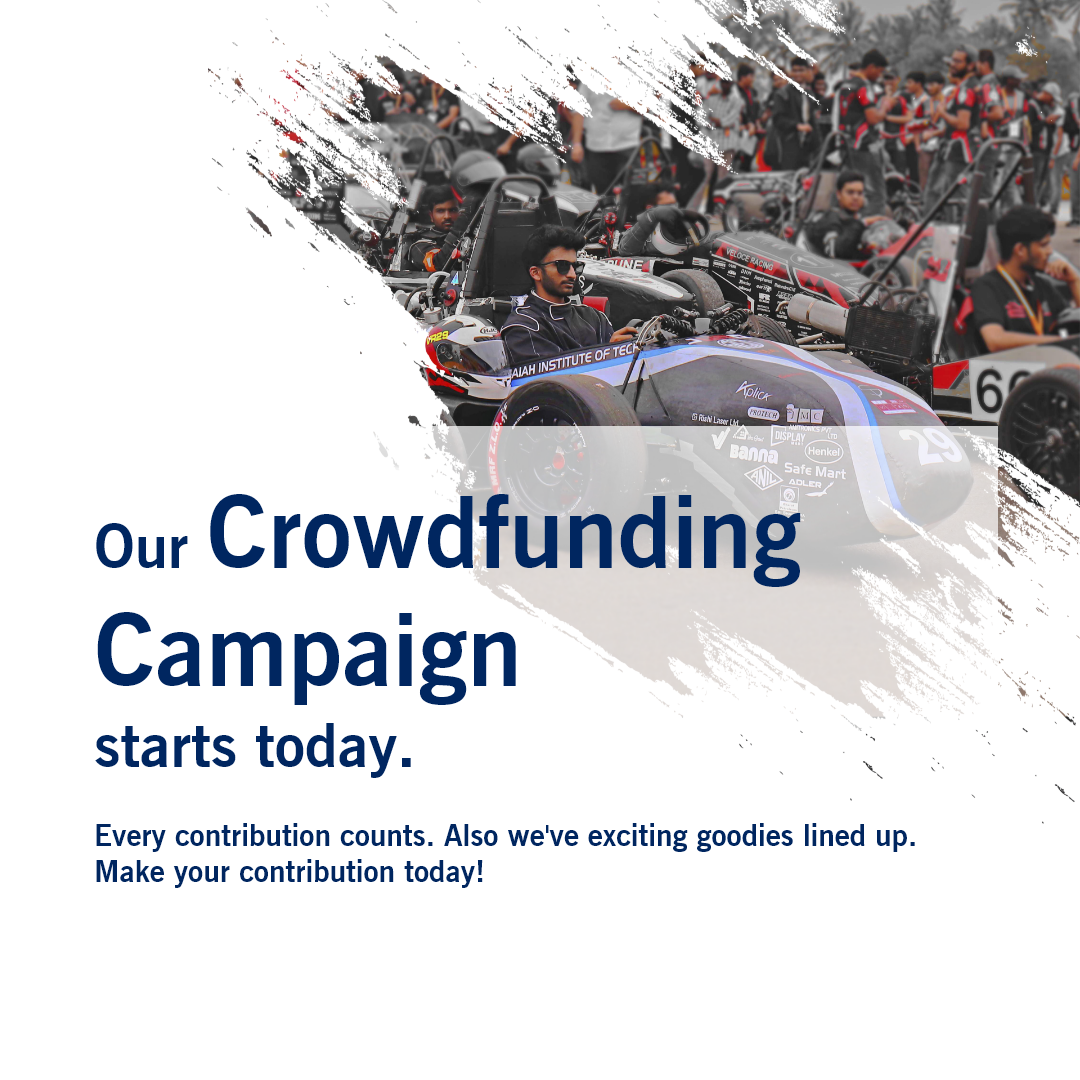
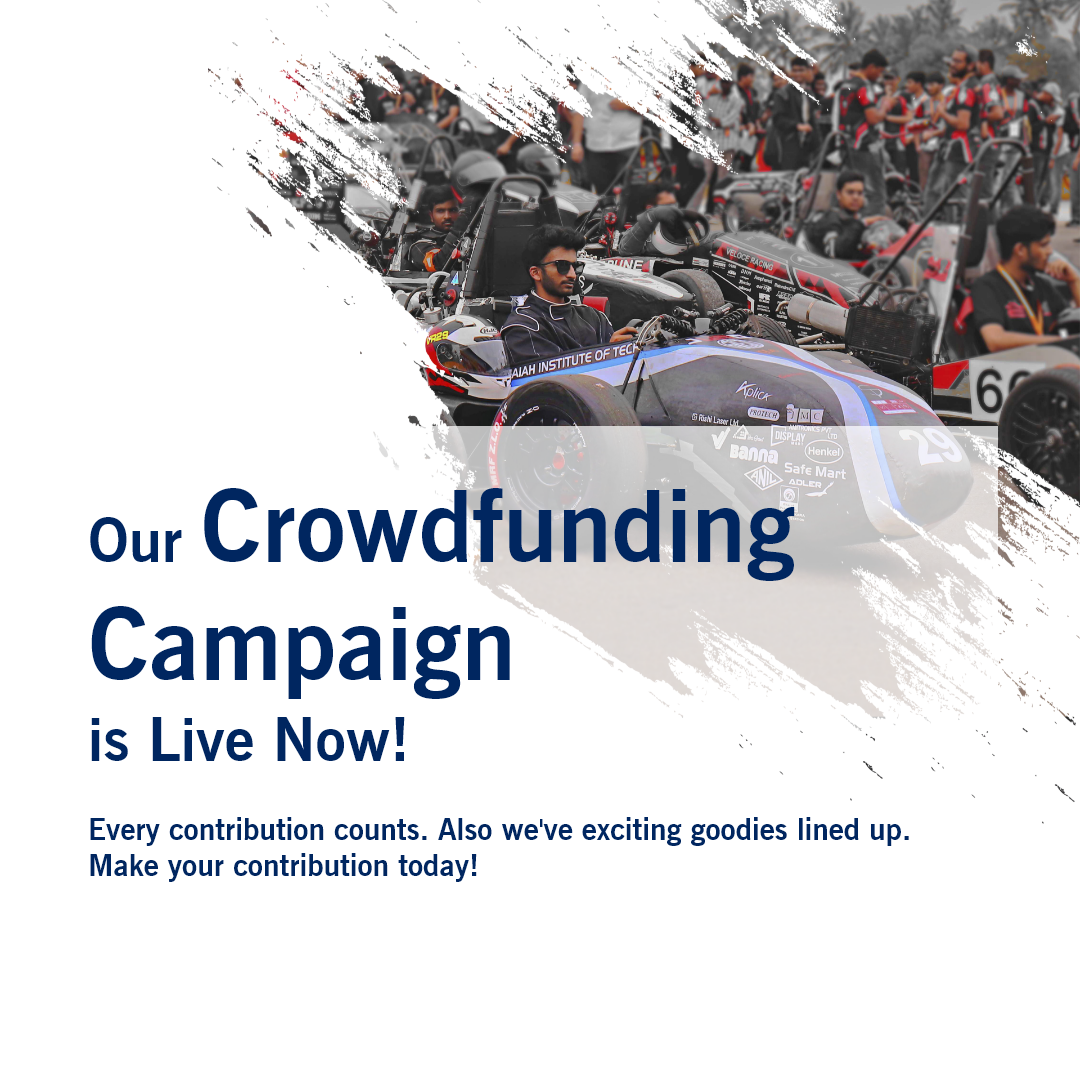
fixes

Changed region(s): [[0.0611, 0.4583, 0.7639, 0.7333], [0.0611, 0.7639, 0.8556, 0.825]]

diff --git a/src/style/sections/home.css b/src/style/sections/home.css
@@ -20,7 +20,7 @@
     align-items: center;
     justify-content: flex-start;
 
-    background-image: url(../../assets/Home/home-21.png);
+    /* background-image: url(../../assets/Home/home-21.png); */
     background-size: cover;
     background-repeat: no-repeat;
     background-position: center center;
